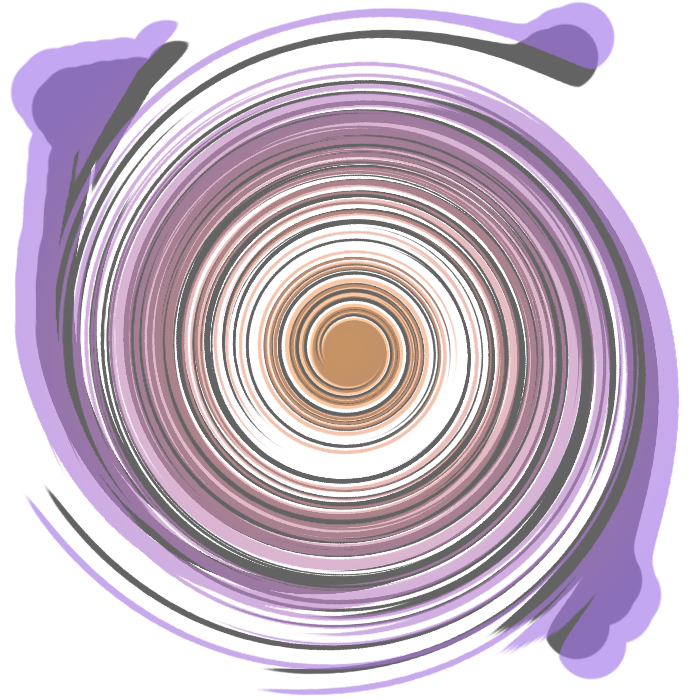
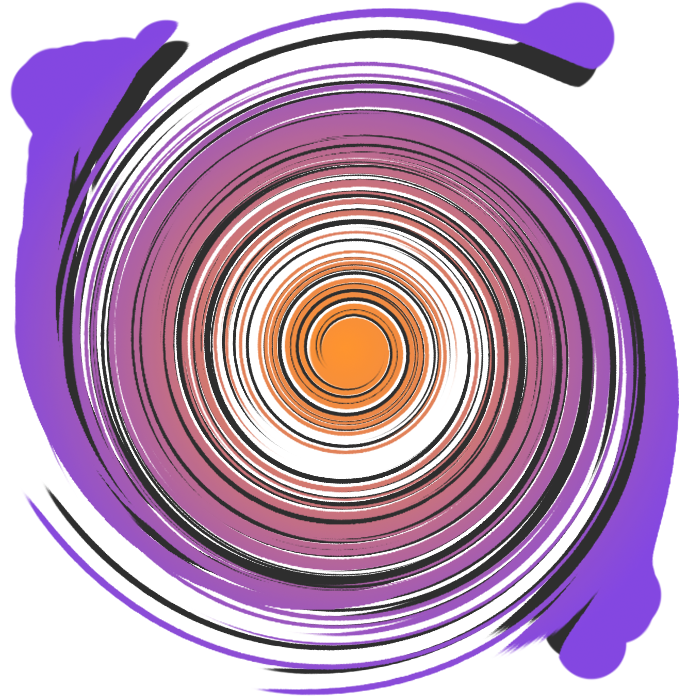
Visual improvement

diff --git a/core/src/com/phuda/pong/MenuScreen.java b/core/src/com/phuda/pong/MenuScreen.java
@@ -5,6 +5,7 @@ import com.badlogic.gdx.Gdx;
 import com.badlogic.gdx.graphics.GL20;
 import com.badlogic.gdx.graphics.Texture;
 import com.badlogic.gdx.graphics.g2d.SpriteBatch;
+import com.badlogic.gdx.math.MathUtils;
 import com.phuda.pong.UI.Button;
 import com.phuda.pong.UI.Slider;
 
@@ -63,11 +64,13 @@ public class MenuScreen extends PongScreen
         Gdx.gl.glClear(GL20.GL_COLOR_BUFFER_BIT);
 
 		batch.begin();
+        batch.setColor(MathUtils.sin(backGroundRotation/2)/2 + 0.5f, 1f, 1f, 1f);
         batch.draw(backGround, w/2 - backGround.getWidth()/2, h/2 - backGround.getHeight()/2,
                 backGround.getWidth()/2, backGround.getHeight()/2,
                 backGround.getWidth(), backGround.getHeight(),
                 1, 1, backGroundRotation, 0, 0, backGround.getWidth(), backGround.getHeight(),
                 false, false);
+        batch.setColor(1f, 1f, 1f, 1f);
 		start_pvp_button.draw(batch);
 		start_pvc_button.draw(batch);
 		other2_button.draw(batch);

diff --git a/core/src/com/phuda/pong/FieldRenderer.java b/core/src/com/phuda/pong/FieldRenderer.java
@@ -62,6 +62,7 @@ public class FieldRenderer {
         // Draw back-ground
         backGroundRotation += time * 2;
         batch.begin();
+        batch.setColor(MathUtils.sin(backGroundRotation)/2 + 0.5f, 1f, 1f, 0.7f);
         batch.draw(backGround, w/2 - backGround.getWidth()/2, h/2 - backGround.getHeight()/2,
                 backGround.getWidth()/2, backGround.getHeight()/2,
                 backGround.getWidth(), backGround.getHeight(),
